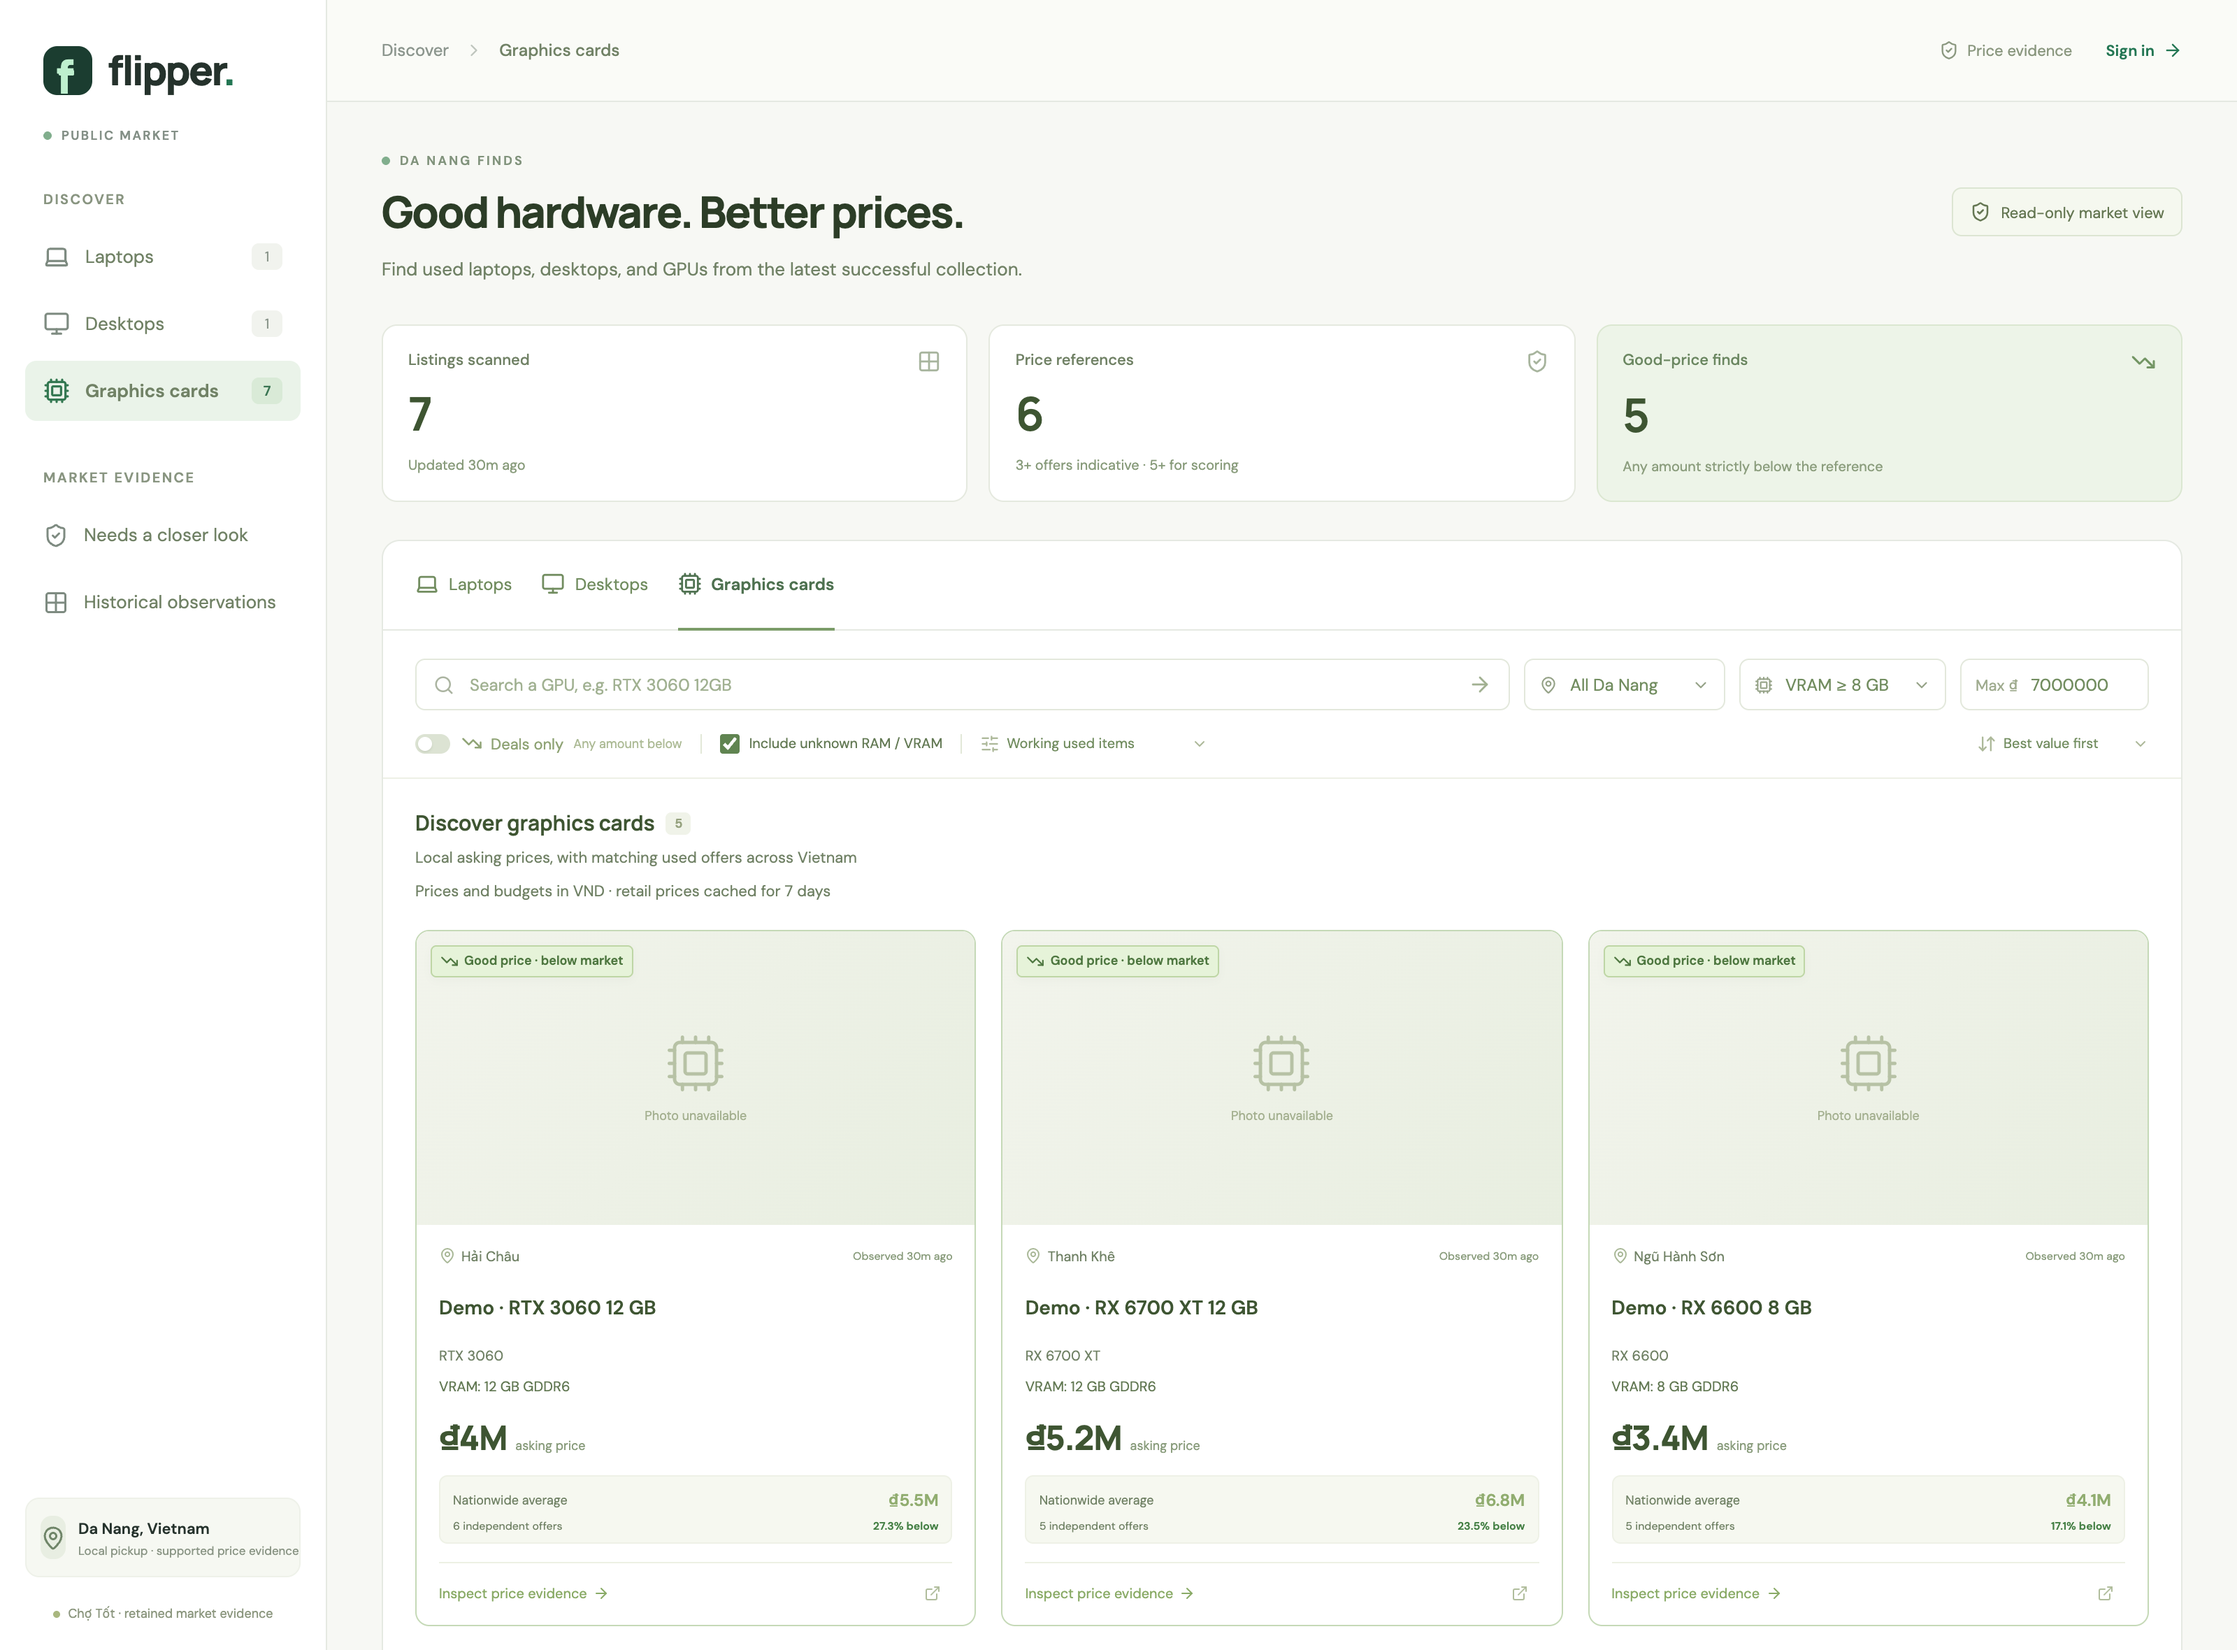
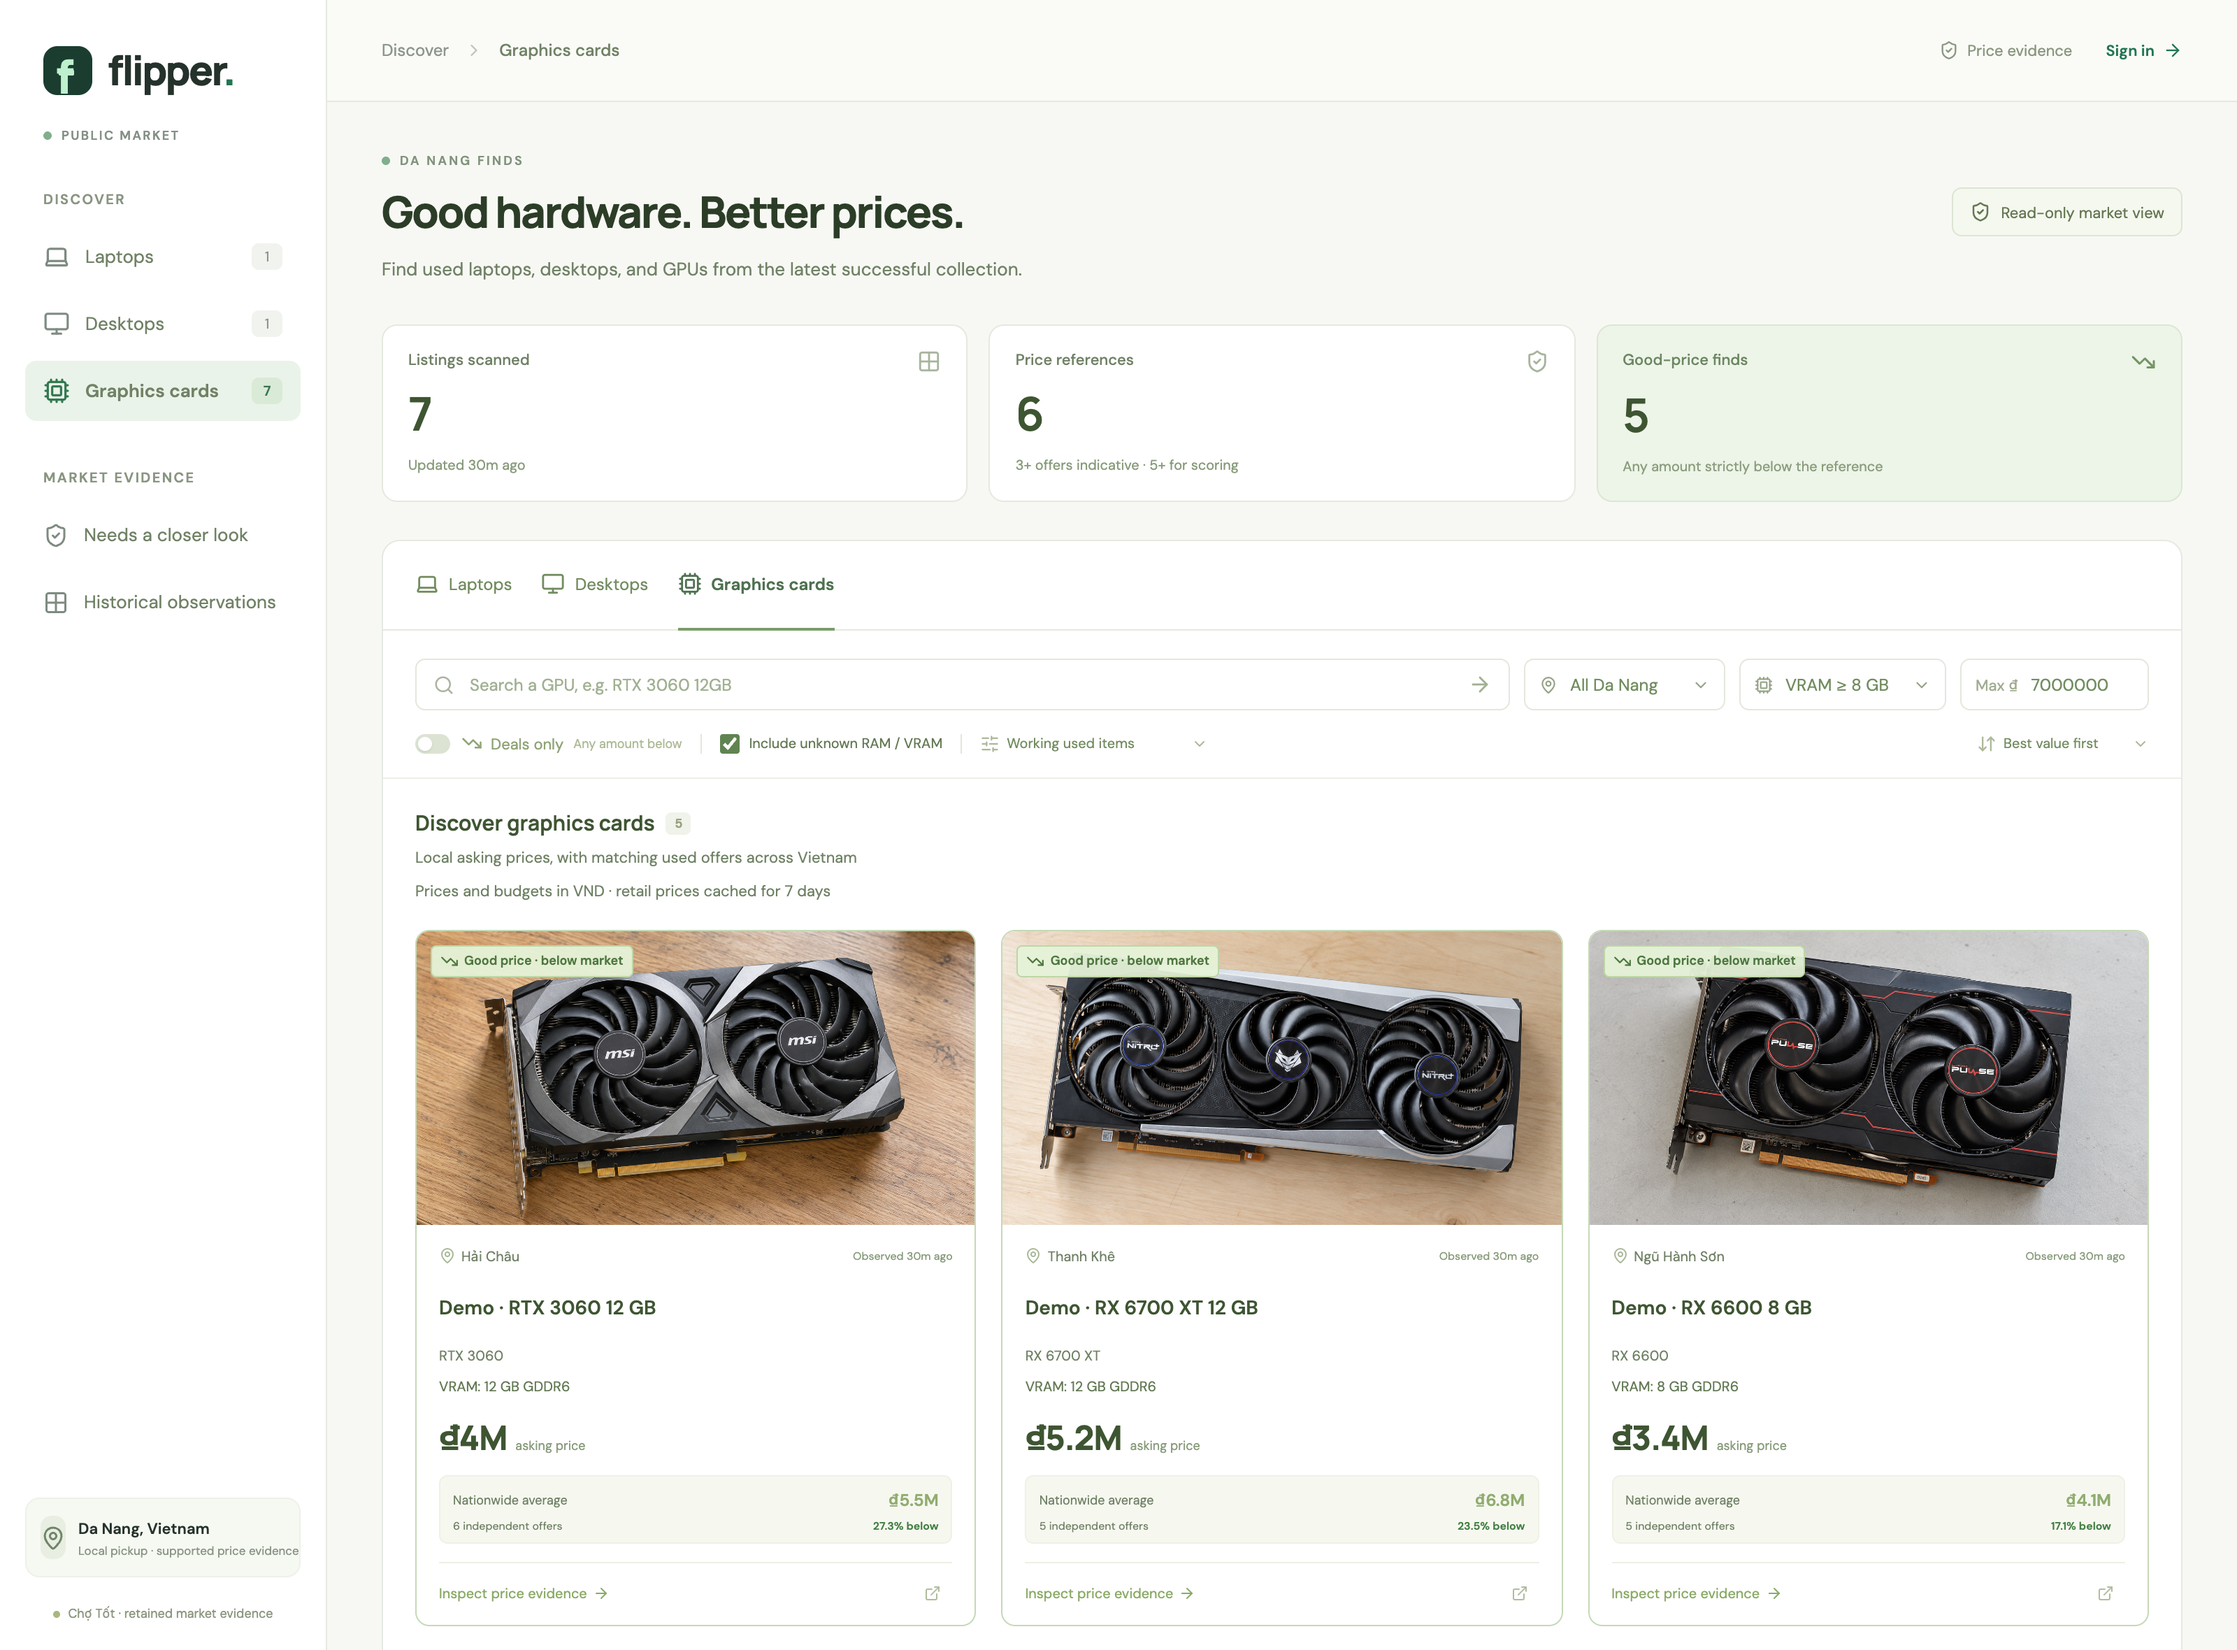
Add illustrative product photos to the Discover screenshot

Changed region(s): [[0.1875, 0.5568, 0.9688, 0.7424]]

diff --git a/docs/images/products/provenance.md b/docs/images/products/provenance.md
@@ -1,0 +1,69 @@
+# Illustrative GPU photographs — 27 October 2026
+
+The three PNGs in this folder were created with Codex's built-in image generation tool for the synthetic Discover screenshot. Each is 1536 × 1024 pixels. They depict illustrative hardware on ordinary desk surfaces; they are not photographs of real marketplace offers and do not establish item condition, model authenticity or a seller's inventory. Listing specifications and prices remain authored examples.
+
+Official manufacturer photographs were visual references for fan count, shroud, proportions and markings. Manufacturer source images are not bundled here; the generated photographs and original interface capture are distinct from the source photography. Product names and physical marks identify the referenced designs and do not imply endorsement.
+
+The actual Flipper UI loads these PNGs through its normal listing image URLs in an isolated in-memory screenshot fixture. The UI and screenshot text were not generated or composited. Only the Discover screenshot was refreshed; the four evidence and recovery crops remain as previously captured.
+
+## Sources and final prompts
+
+### MSI GeForce RTX 3060 VENTUS 2X 12G OC
+
+Output: [rtx3060-illustrative.png](rtx3060-illustrative.png).
+
+Reference: [official manufacturer page](https://www.msi.com/Graphics-Card/GeForce-RTX-3060-VENTUS-2X-12G-OC/Gallery), [exact product photograph used](https://storage-asset.msi.com/global/picture/product/product_1610443907b48feb29b4a49834f4b19e35c5511db6.webp).
+
+Built-in generation prompt:
+
+```text
+Use case: photorealistic-natural.
+Asset type: illustrative product photo inside a synthetic used-hardware listing in Flipper.
+Primary request: Create one believable everyday marketplace photo of the exact graphics card in the manufacturer reference, photographed on a plain desk. This is an illustrative generated photo, not an actual seller's item.
+Reference role: use the attached image only to preserve the graphics card's physical design, proportions, fan count, shroud, heatsink, bracket and subtle physical branding.
+Style: photorealistic casual phone photography, natural window daylight, real material texture, subtle signs of handling, no damage, no dramatic advertising lighting.
+Composition: landscape 3:2 image. One whole card only, lying fan-side up on its backplate, viewed from a modest overhead three-quarter angle. Card long axis nearly horizontal with a slight diagonal. Center it, occupying about 70 percent of image width; retain generous space on every side so the complete card survives a wide 2:1 center crop. Crisp product detail, realistic soft contact shadows, modest depth of field.
+Constraints: no hands, people, retail box, cables, computer, extra hardware, captions, price labels, UI, added stickers or watermark. No glowing LEDs or impossible anatomy. Preserve existing fan-hub markings subtly; do not add large text. Opaque background.
+Subject: MSI GeForce RTX 3060 VENTUS 2X 12G OC; the short silver-and-black angular shroud and exactly two black fans shown in the reference. Ignore and omit the retail box in the reference.
+Scene: a lightly worn warm oak desk, soft daylight from a nearby window. Photograph the physical card with a little natural perspective, retaining its correct two-fan design.
+```
+
+### Sapphire NITRO+ Radeon RX 6700 XT 12GB
+
+Output: [rx6700xt-illustrative.png](rx6700xt-illustrative.png).
+
+Reference: [official manufacturer page](https://www.sapphiretech.com/en/consumer/nitro-radeon-rx-6700-xt-12g-gddr6), [exact product photograph used](https://www.sapphiretech.com/-/media/sites/sapphire/pim/product-images/11306_01_08_nitro_rx_6700xt/11306_01_rx6700xt_nitro_12gbgddr6_3dp_hdmi_c01_800x500.ashx?v=c387a4088f9c4d14add9817facb1924d).
+
+Built-in generation prompt:
+
+```text
+Use case: photorealistic-natural.
+Asset type: illustrative product photo inside a synthetic used-hardware listing in Flipper.
+Primary request: Create one believable everyday marketplace photo of the exact graphics card in the manufacturer reference, photographed on a plain desk. This is an illustrative generated photo, not an actual seller's item.
+Reference role: use the attached image only to preserve the graphics card's physical design, proportions, fan count, shroud, heatsink, bracket and subtle physical branding.
+Style: photorealistic casual phone photography, natural window daylight, real material texture, subtle signs of handling, no damage, no dramatic advertising lighting.
+Composition: landscape 3:2 image. One whole card only, lying fan-side up on its backplate, viewed from a modest overhead three-quarter angle. Card long axis nearly horizontal with a slight diagonal. Center it, occupying about 70 percent of image width; retain generous space on every side so the complete card survives a wide 2:1 center crop. Crisp product detail, realistic soft contact shadows, modest depth of field.
+Constraints: no hands, people, retail box, cables, computer, extra hardware, captions, price labels, UI, added stickers or watermark. No glowing LEDs or impossible anatomy. Preserve existing fan-hub markings subtly; do not add large text. Opaque background.
+Subject: Sapphire NITRO+ Radeon RX 6700 XT 12GB; long silver-and-black shroud, exactly three black fans with a slightly smaller middle fan and restrained blue-purple rings on the hubs, matching the reference.
+Scene: a plain pale birch workbench with gentle wood grain, side window daylight. Keep the card's length and all three fans clearly visible.
+```
+
+### Sapphire PULSE Radeon RX 6600 8GB
+
+Output: [rx6600-illustrative.png](rx6600-illustrative.png).
+
+Reference: [official manufacturer page](https://www.sapphiretech.com/en/consumer/pulse-radeon-rx-6600-8g-gddr6), [exact product photograph used](https://www.sapphiretech.com/-/media/sites/sapphire/pim/product-images/11310_01_rx6600_pulse_8ggddr6/11310_01_rx6600_pulse_c01_800x500.ashx?v=2c60ec1fcf4c4d3787cefd9cc8e14558).
+
+Built-in generation prompt:
+
+```text
+Use case: photorealistic-natural.
+Asset type: illustrative product photo inside a synthetic used-hardware listing in Flipper.
+Primary request: Create one believable everyday marketplace photo of the exact graphics card in the manufacturer reference, photographed on a plain desk. This is an illustrative generated photo, not an actual seller's item.
+Reference role: use the attached image only to preserve the graphics card's physical design, proportions, fan count, shroud, heatsink, bracket and subtle physical branding.
+Style: photorealistic casual phone photography, natural window daylight, real material texture, subtle signs of handling, no damage, no dramatic advertising lighting.
+Composition: landscape 3:2 image. One whole card only, lying fan-side up on its backplate, viewed from a modest overhead three-quarter angle. Card long axis nearly horizontal with a slight diagonal. Center it, occupying about 70 percent of image width; retain generous space on every side so the complete card survives a wide 2:1 center crop. Crisp product detail, realistic soft contact shadows, modest depth of field.
+Constraints: no hands, people, retail box, cables, computer, extra hardware, captions, price labels, UI, added stickers or watermark. No glowing LEDs or impossible anatomy. Preserve existing fan-hub markings subtly; do not add large text. Opaque background.
+Subject: Sapphire PULSE Radeon RX 6600 8GB; compact black rectangular shroud, exactly two black fans, fine red trim and small red rings on the fan hubs matching the reference.
+Scene: a matte light-gray desk surface with tiny everyday surface imperfections, soft natural daylight. Retain correct compact proportions and fine red accents.
+```

diff --git a/README.md b/README.md
@@ -20,11 +20,13 @@ saved items and settings belong to the private administrator workspace.
 
 These captures show the actual application UI and API with synthetic listings,
 comparisons, price histories and run records in an isolated in-memory instance.
-Prices, request counts and AI accounting are illustrative; no marketplace seller
-data or photographs are included. The captures demonstrate the interface, not
-live provider availability or production execution.
+Prices, request counts and AI accounting are illustrative. The Discover view uses
+AI-generated product photos based on official manufacturer references; see their
+[sources and prompts](docs/images/products/provenance.md). No marketplace seller
+data is included. The captures demonstrate the interface, not live provider
+availability or production execution.
 
-![Flipper's public market browser with synthetic hardware listings, specification filters and asking-price references](docs/images/flipper-discover.png)
+![Flipper's public market browser with illustrative GPU photos, synthetic hardware listings, specification filters and asking-price references](docs/images/flipper-discover.png)
 
 **Find hardware that fits.** Model, memory, district and VND budget filters narrow
 the local market, while reference prices help identify candidates worth a closer
